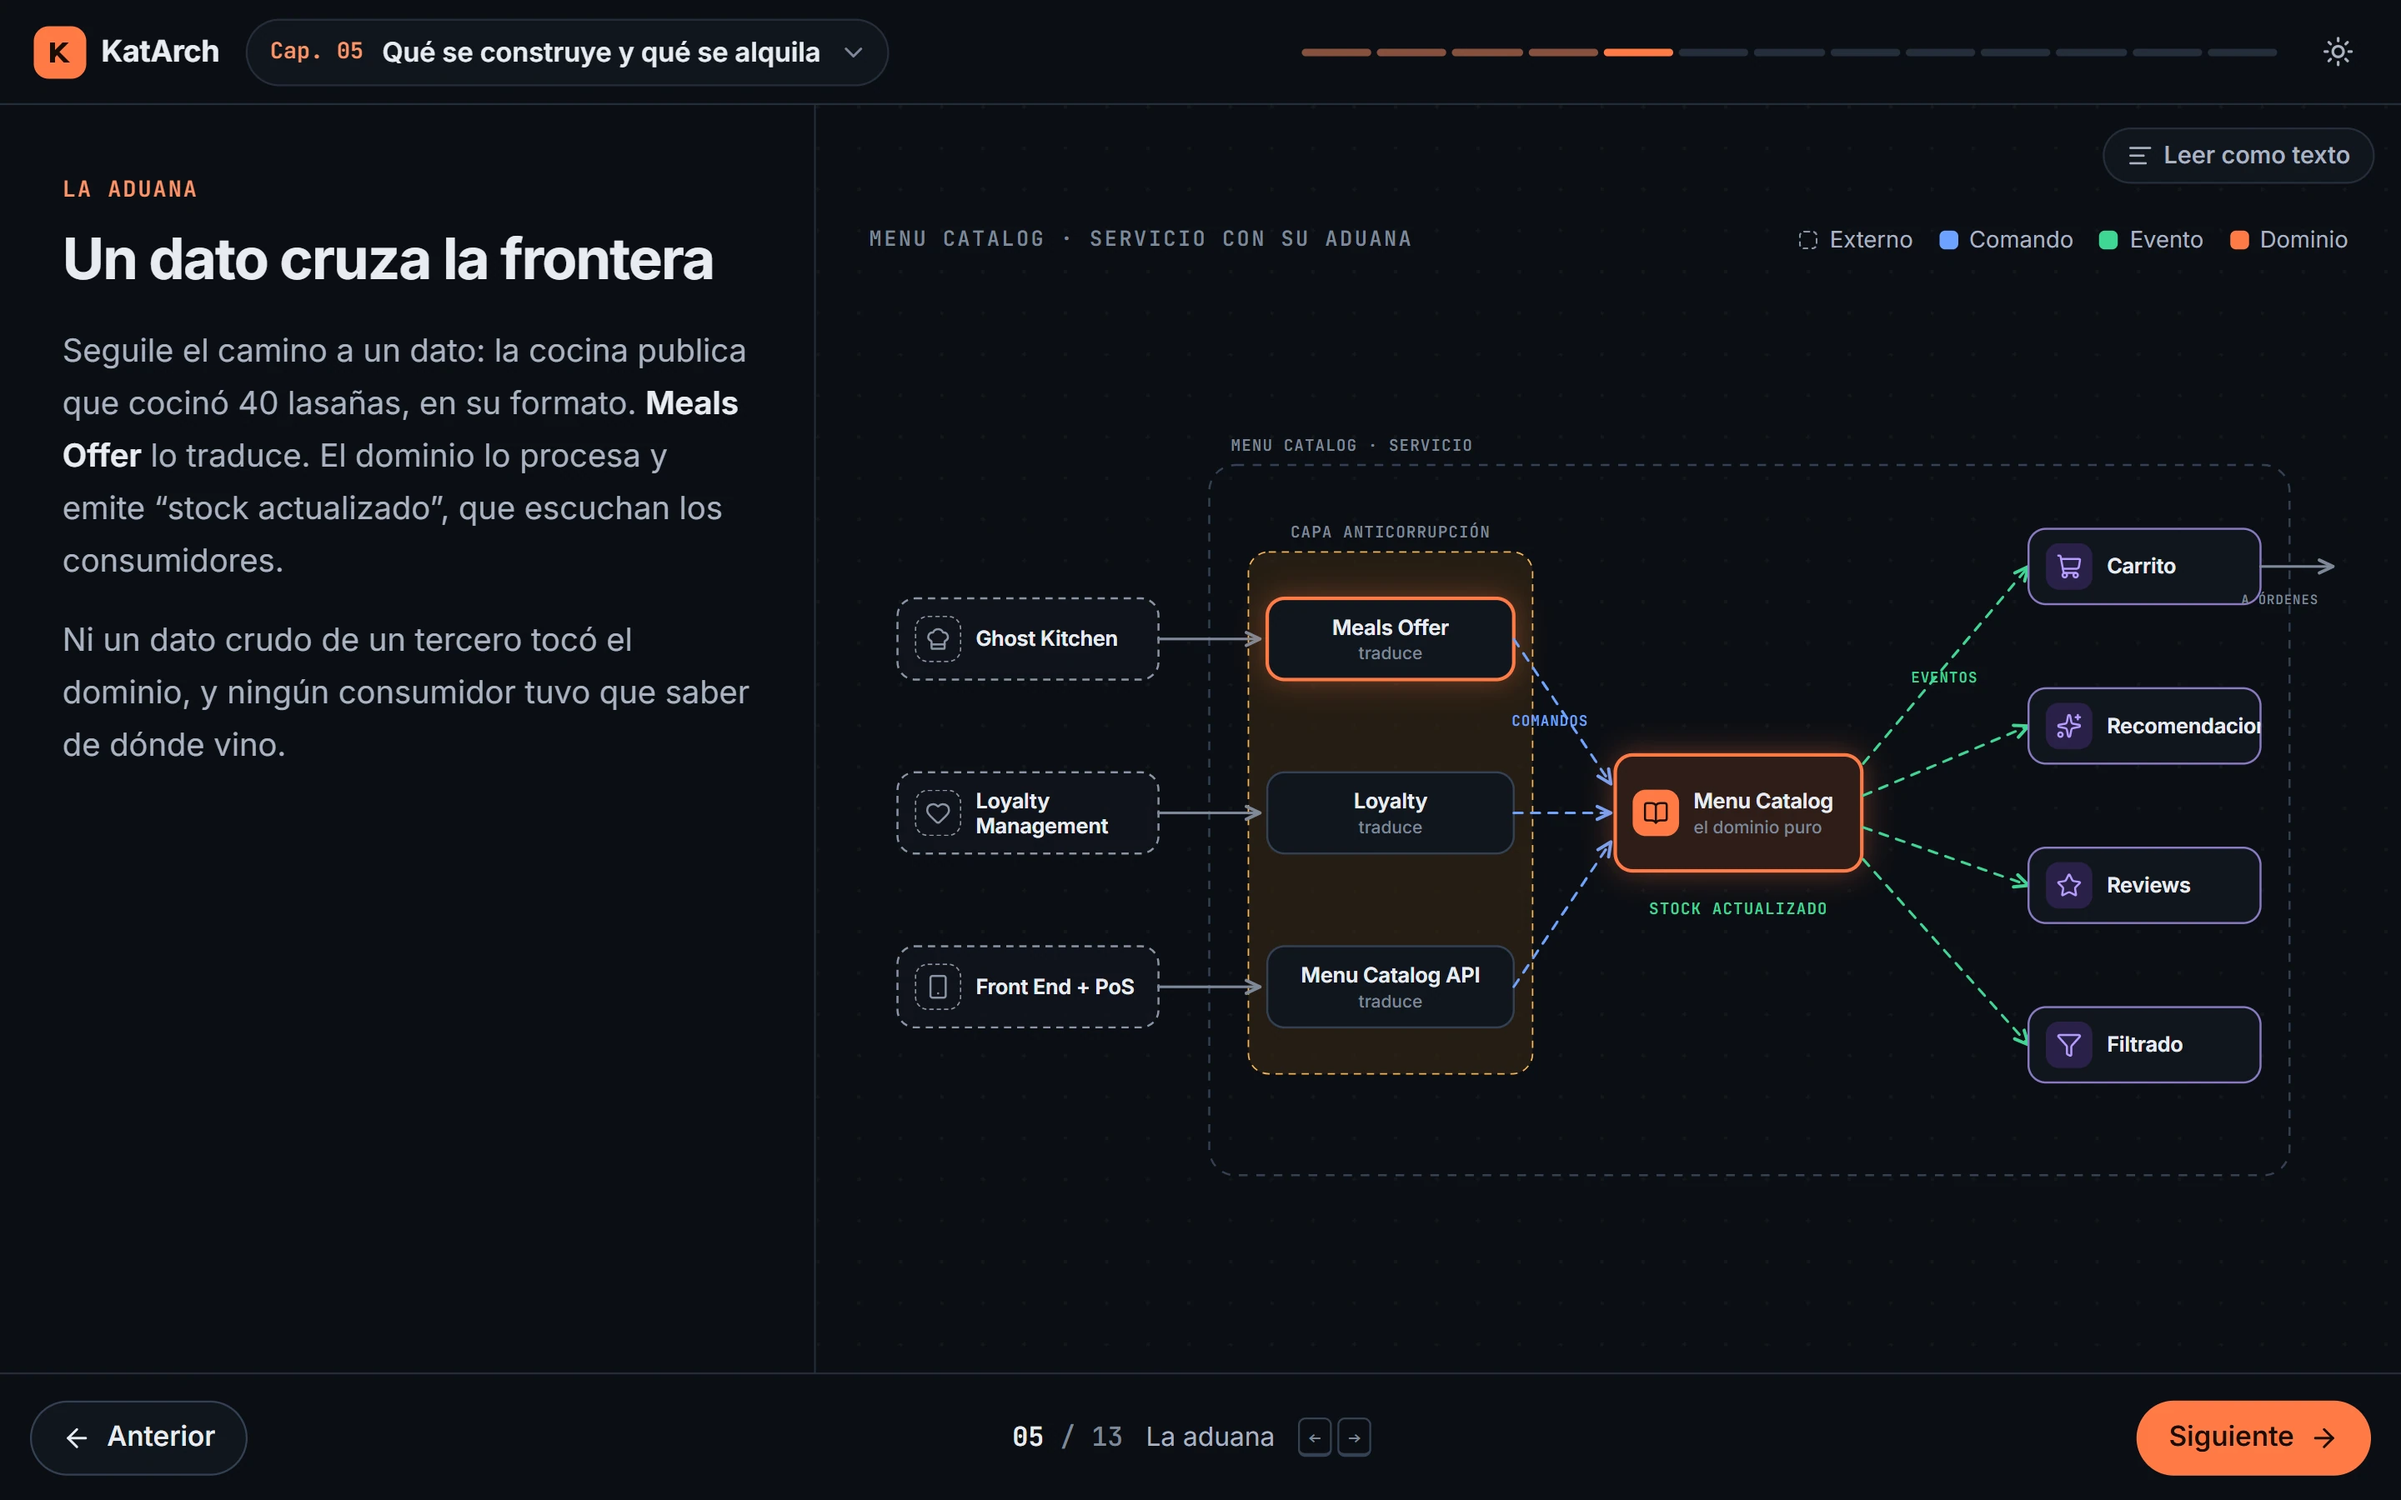
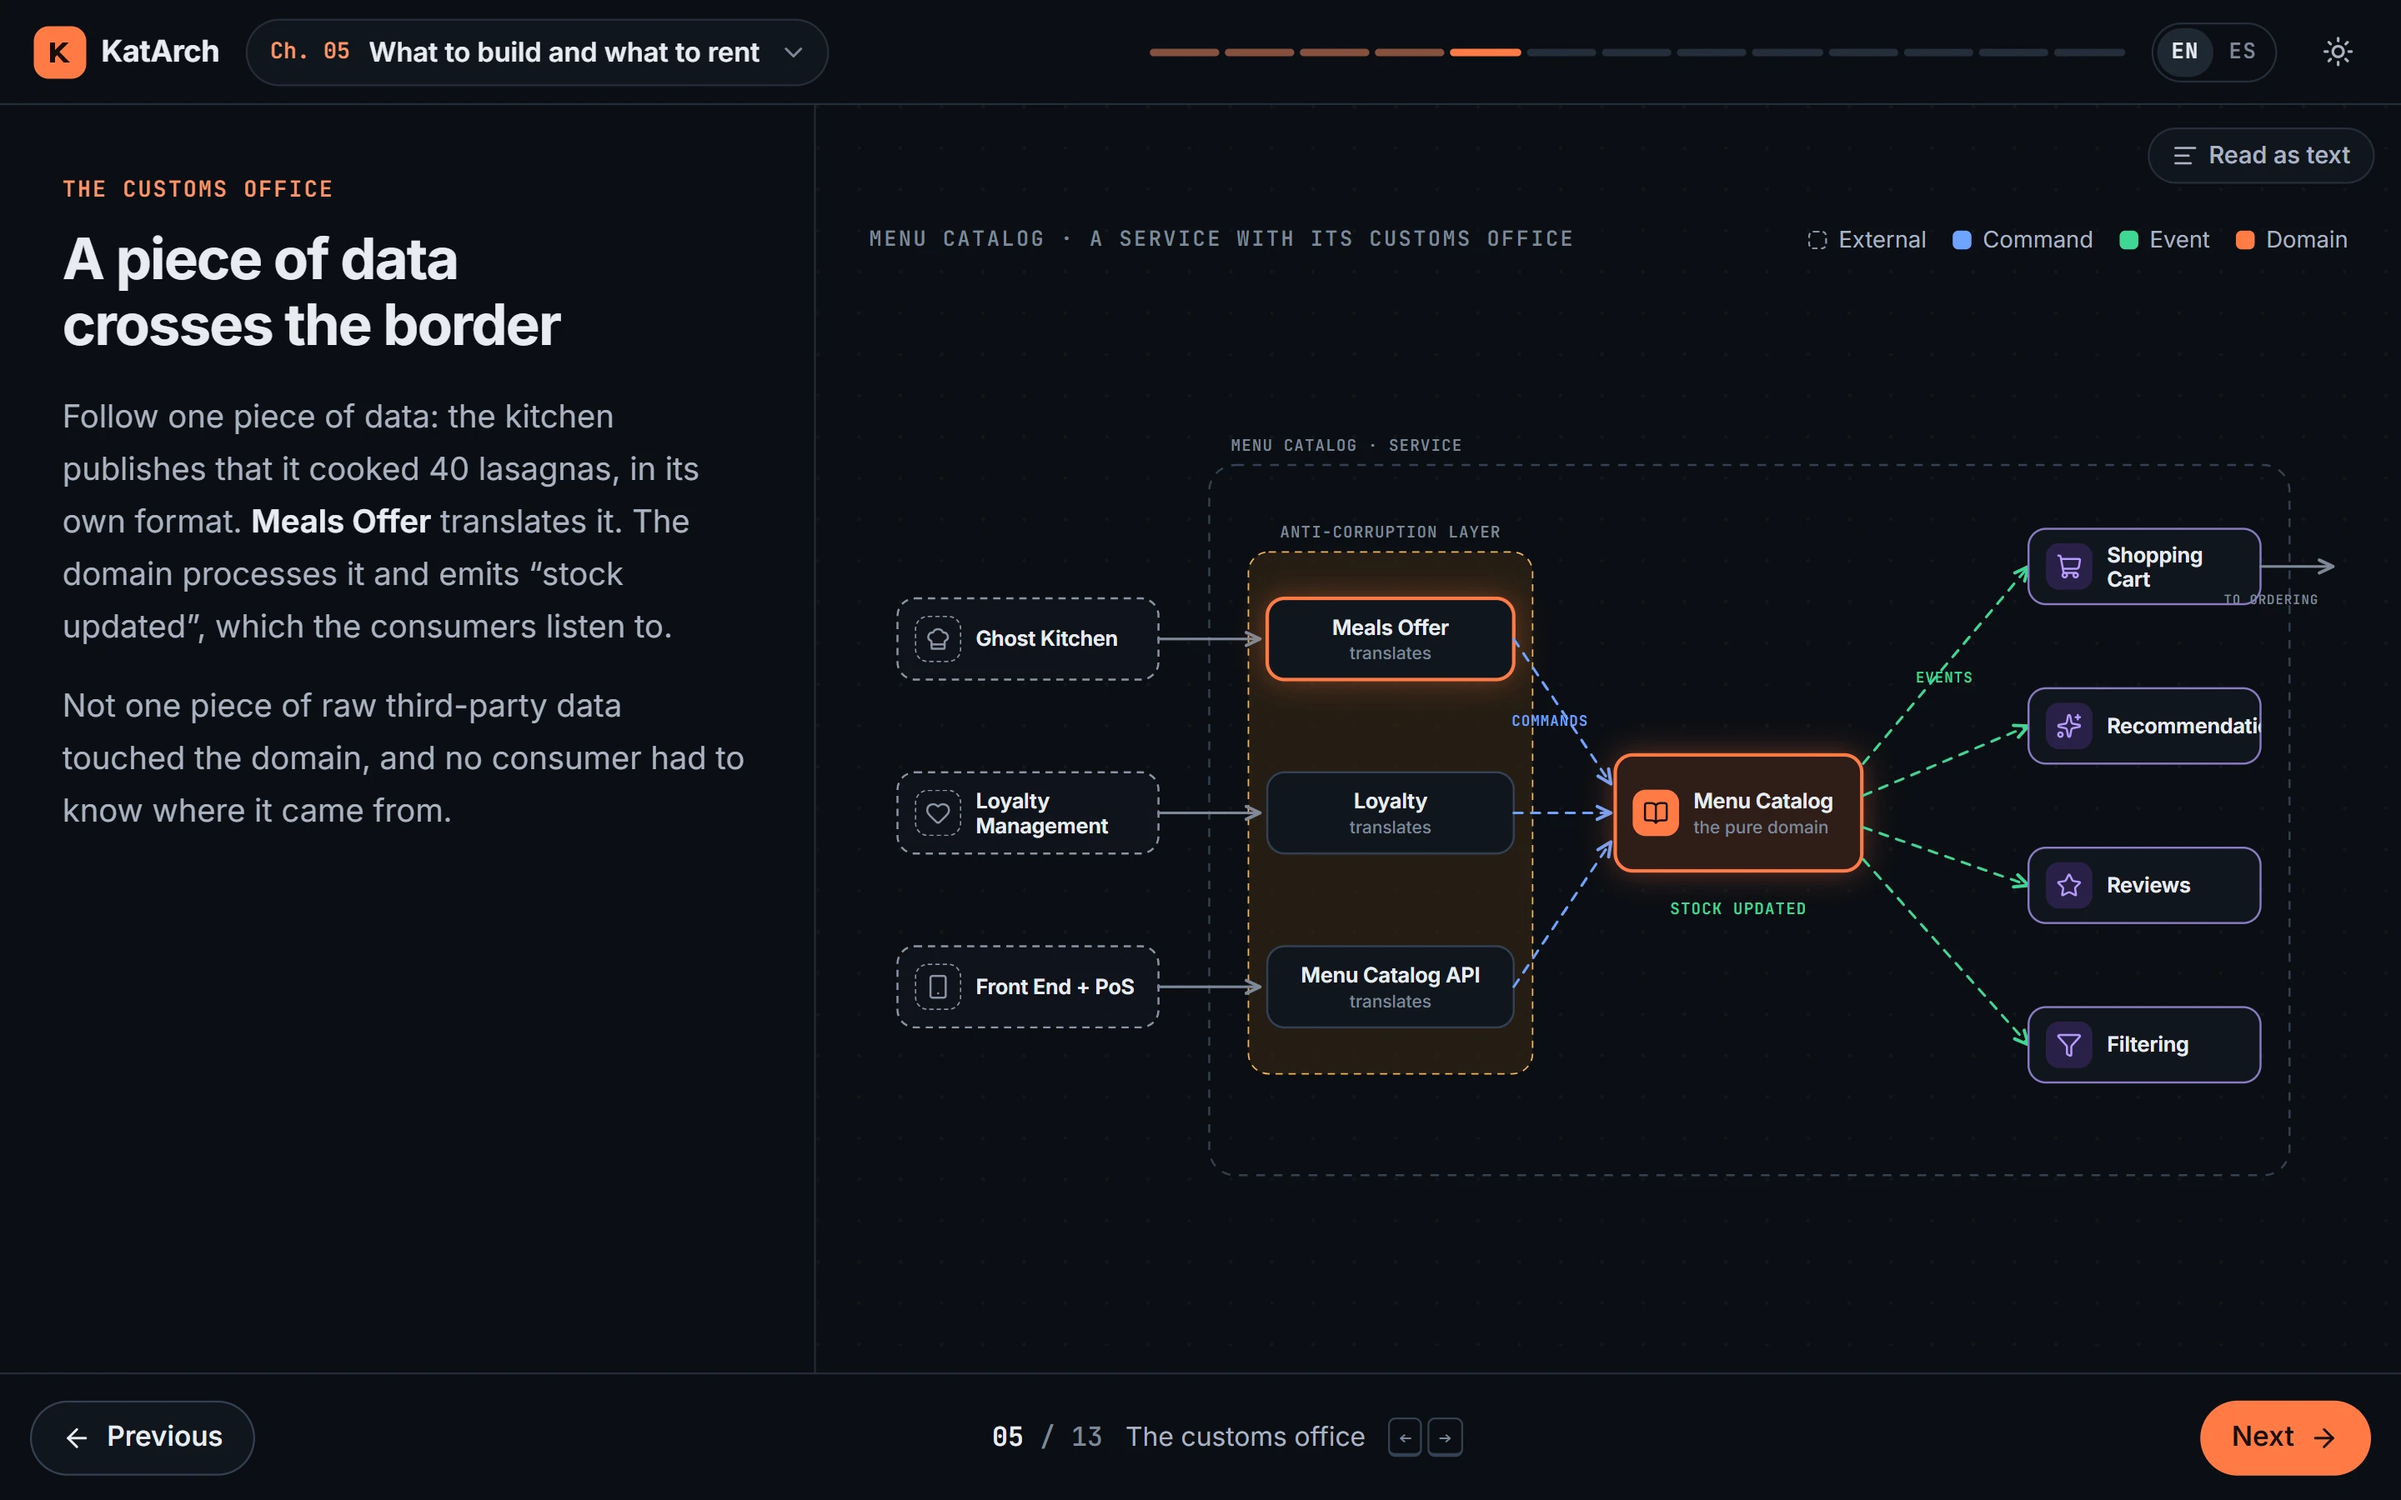
docs(readme): English screenshots and alt text

diff --git a/README.md b/README.md
@@ -6,7 +6,7 @@ A guided course that rebuilds, step by step, how the winning team of the O'Reill
 
 <picture>
   <source media="(prefers-color-scheme: dark)" srcset="docs/screenshots/katarch-main-dark.webp">
-  <img alt="KatArch, chapter 5, step 'Un dato cruza la frontera'. A text panel on the left explains the step; on the right, an animated diagram shows the Menu Catalog anti-corruption layer: Ghost Kitchen, Loyalty Management and Front End + PoS send data through three translators (Meals Offer, Loyalty, Menu Catalog API), which issue commands to the Menu Catalog domain; the domain emits a 'stock actualizado' event to Cart, Recommendations, Reviews and Filtering. A step counter and Previous/Next buttons sit at the bottom." src="docs/screenshots/katarch-main-light.webp">
+  <img alt="KatArch, chapter 5, step 'A piece of data crosses the border'. A text panel on the left explains the step; on the right, an animated diagram shows the Menu Catalog anti-corruption layer: Ghost Kitchen, Loyalty Management and Front End + PoS send data through three translators (Meals Offer, Loyalty, Menu Catalog API), which issue commands to the Menu Catalog domain; the domain emits a 'stock updated' event to Shopping Cart, Recommendations, Reviews and Filtering. A step counter and Previous/Next buttons sit at the bottom." src="docs/screenshots/katarch-main-light.webp">
 </picture>
 
 ## What it is
@@ -29,7 +29,7 @@ The course shows one idea per screen. The team's figures are redrawn as native, 
     <td width="50%" valign="top">
       <picture>
         <source media="(prefers-color-scheme: dark)" srcset="docs/screenshots/katarch-undo-dark.webp">
-        <img alt="Chapter 6 simulator 'la ventana de deshacer': an order moves from 'Orden confirmada' to an in-memory window with a 10 of 30 second progress bar before reaching the payment gateway, with a Cancel order button and a counter showing zero fees paid." src="docs/screenshots/katarch-undo-light.webp">
+        <img alt="Chapter 6 simulator 'the undo window': an order moves from 'Order confirmed' to an in-memory window with a 10 of 30 second progress bar before reaching the payment gateway, with a 'Cancel the order' button and a counter showing zero fees paid." src="docs/screenshots/katarch-undo-light.webp">
       </picture>
       <br><sub>A simulator for the team's undo window: an order is held 10 to 30 seconds before payment, so an early cancel costs no fees.</sub>
     </td>
@@ -38,7 +38,7 @@ The course shows one idea per screen. The team's figures are redrawn as native, 
     <td width="50%" valign="top">
       <picture>
         <source media="(prefers-color-scheme: dark)" srcset="docs/screenshots/katarch-valuemap-dark.webp">
-        <img alt="Chapter 4: the value map from ADR 002, a table scoring monolith, microservices, micro-kernel and modular monolith against ten quality attributes from strongly negative to strongly positive, next to a 'pausá y predecí' question asking which column a small team with a minimal budget should pick." src="docs/screenshots/katarch-valuemap-light.webp">
+        <img alt="Chapter 4: the value map from ADR 002, a table scoring monolith, microservices, micro-kernel and modular monolith against ten quality attributes from strongly negative to strongly positive, next to a 'pause and predict' question asking which column a small team with a minimal budget should pick." src="docs/screenshots/katarch-valuemap-light.webp">
       </picture>
       <br><sub>ADR 002's value map, with a prediction question before the team's answer is shown.</sub>
     </td>
